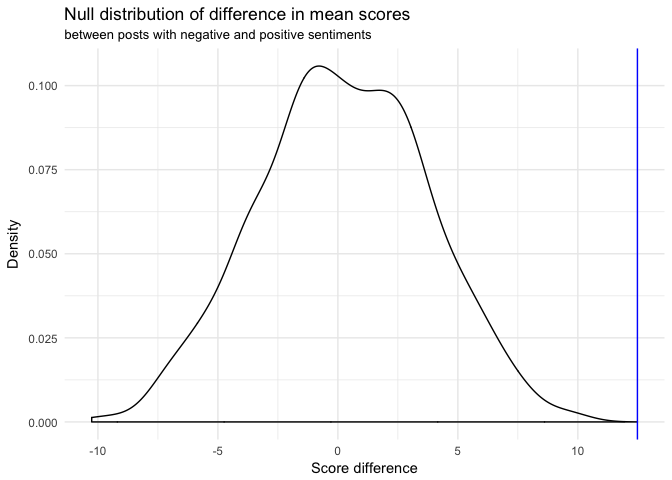
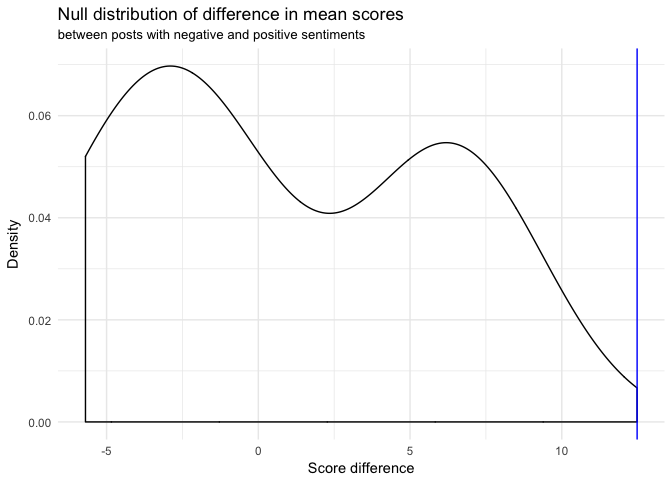
Finish modeling

diff --git a/project/project.md b/project/project.md
@@ -10,15 +10,15 @@ Reddit is a social news platform owned by Conde Nast that derives its content fr
 
 TODO: Expand introduction
 
-### Data Set
-
-The data set is comprised of Reddit posts from December 2017, since it was the latest data set we could find and wanted to keep up with the most recent trends. Also, it will be interesting to explore themes related to Christmas. We retrieved it from the Google BigQuery API. The data set contains 33 variables and 1000000 observations.
-
-Our dataset is made up of 33 variables but for this project, we will only be looking at these variables: `subreddit` (categorical, name of the subreddit the post belongs to), `num_comments` (numerical, the number of comments on the post),`score` (numerical, popularity score of post), `ups` (numerical, amount of up votes the post recieved), `downs` (numerical, amount of down votes the post recieved), `title` (categorical, the title of the post), `selftext` (categorical, the text body on the post), `gilded` (numerical, amount of gold reddit donations from other users), `over_18` ( categorical, true or fale if post is only appropriate for users over the age of 18), and `stickied` (categorical, whether or not post was stickied by moderators of the post's subreddit). The rest of the descriptions for the other variables can be found in our data folder.
-
-### Research Question
+#### Research Question
 
 Coincidentally, our team is made up of avid Reddit fans. All three of us are constantly checking it for interesting, insightful, and funny posts. Given that Reddit recieves thousands of posts per day and the little time in the day we have to check Reddit, we all usually only check the "popular" feed. So, it got us thinking that we should learn more about the site we use pretty frequently. Specifically, we want to analyze what makes a Reddit post popular.
+
+#### Data Set
+
+The data set is comprised of Reddit posts from December 2017, since it was the latest data set we could find and wanted to keep up with the most recent trends. Also, it will be interesting to explore themes related to Christmas. We retrieved it from the Google BigQuery API. The data set contains 33 variables and 1,000,000 observations.
+
+Our dataset is made up of 33 variables but for this project, we will only be looking at these variables: `subreddit` (categorical, name of the subreddit the post belongs to), `num_comments` (numerical, the number of comments on the post),`score` (numerical, popularity score of post), `ups` (numerical, amount of up votes the post recieved), `downs` (numerical, amount of down votes the post recieved), `title` (categorical, the title of the post), `selftext` (categorical, the text body on the post), `gilded` (numerical, amount of gold reddit donations from other users), `over_18` ( categorical, true or fale if post is only appropriate for users over the age of 18), and `stickied` (categorical, whether or not post was stickied by moderators of the post's subreddit). The rest of the descriptions for the other variables can be found in our data folder.
 
 Exploring Term Frequencies
 --------------------------
@@ -62,14 +62,14 @@ It appears that the sentiment analysis results match our intuition -- the positi
 
 Now, we can finally test our hypothesis. The null hypothesis and the alternative hypothesis are as follows.
 
-H0: A post's score is independent of the title's sentiment polarity.
+H0: The mean post score for negative posts is equal to the mean post score of positive posts.
 HA: Negative posts have a higher mean score than positive posts.
 
 For this analysis, we will ignore posts with neutral sentiment and only focus on those with positive or negative sentiment polarity. Before we start, we need to verify whether all conditions for valid simulation based inference are met. Our "population" is the set of all Reddit posts in December 2017 and has a size of 10,567,492. Our sample is taken at random without replacement and has a size of 1,000,000. Since the sample size is less than 10% of the population size, the independence condition is therefore met. Additionally, we require more than 30 samples, which we also have.
 
 First, we calculate the observed difference in mean score between posts with negative and positive `sent_class`.
 
-We find that, in our sample, negative posts have an average score which is 12.48 higher than positive posts. Next, let's figure out whether this difference could be due to chance using bootstrapping with permutation.
+We find that in our sample, negative posts have an average score which is 12.48 higher than positive posts. Next, let's figure out whether this difference could be due to chance using bootstrapping with permutation.
 
 The resulting null distribution of the differences in means in shown below.
 
@@ -95,7 +95,7 @@ The resulting null distribution of the differences in means in shown below.
 
 ![](project_files/figure-markdown_github/plot-null-dist2-1.png)
 
-We can clearly see that we have a p-value of 0.14. This means that we can reject the null hypothesis and conclude that *dog posts indeed have a higher mean score than cat posts*.
+We can clearly see that we have a p-value of 0.2. This means that we can reject the null hypothesis and conclude that *dog posts indeed have a higher mean score than cat posts*.
 
 Modeling Popularity
 -------------------
@@ -106,17 +106,21 @@ Our main resarch goal is to find out what makes a post popular. Hence, we want t
 
 It appears that the post scores follow something resembling a beta distribution. The average score is 58.66 and the standard deviation is 1027.86. The highest score by any post in December 2017 is 166121 by [this](http://www.reddit.com/r/gaming/comments/7m13gd/as_a_teen_in_the_80s_my_conservative_godfearing/) post, which is about the game Dungeons & Dragons.
 
-### Feature Engineering
+#### Feature Engineering
 
 We would like to build a model that predicts a post's score from various features, so we need to decide which features we want to look at. We start by creating a variable that denotes the total uptime of the post, i.e. the difference between the time it was retrieved and the time it was created. Both of these quantitites are given as the number of seconds from a time origin, so we can simply compute the difference between the two and convert the result into hours, as that will be a more interpretable quantity.
 
 Next, we want to have a variable that denotes the length of the title as well as the body text of each post. Hence, we compute the number of characters in `title` and store it in a new variable `title_length`.
 
-We would like to include the `subreddit` variable, but there are 1000000 levels which will increase the model complexity drastically. Hence, we only include indicator variables for the nine most popular subreddits we explored earlier as well as one additional level called "other".
+We would like to include the `subreddit` variable, but there are 64531 levels which will increase the model complexity too much. Hence, we only include indicator variables for the nine most popular subreddits we explored earlier as well as one additional level called "other".
 
 We will also include the two variables we created earlier -- `sent_class` and `animal` -- as well as `gilded`, `stickied`, and `num_comments`. Next, we remove posts where the score is hidden or any of the predictor variables are missing.
 
-This leaves us with 995003 posts out of the original 1000000. Our first approach will be a linear model, optimized using backward selection by AIC.
+This leaves us with 995003 posts out of the original 1,000,000.
+
+#### Modeling
+
+Our first approach will be a linear model, optimized using backward selection by AIC.
 
     ## Start:  AIC=1.4e+07
     ## score ~ uptime + title_length + gilded + stickied + num_comments + 
@@ -167,11 +171,27 @@ This leaves us with 995003 posts out of the original 1000000. Our first approach
     ## 17    subreddit_The_Donald -141.081
     ## 18 subreddit_todayilearned  243.961
 
-Looking at the slope coeffiecents for our selected model's variables of `gilded`, `num_comments`, `stickied`, and `sent_class`, we can analyze the following. For every one gilded point a Reddit post receives, the score goes up by 4,622, given that all other variables remain constant. This makes sense since user really must like a post if they're willing to pay a gold donation to the creator. For every one comment the Reddit post recieves, the score goes by 3.9, given that all other variables remain constant. For when a post gets stickied by the moderators of the subreddits, the score goes down by 144.3, given that all other variables remain constant. This is an interesting analysis because we would expect a post that gets attention from the moderators and gets placed at the top of the feed would recieve a higher score but apparently that is not the case. Lastly, when a post's title is of neutral sentiment, the post's score goes down by 6.7 and if the post's title is of positive sentiment, the post's score goes down by 8.
+Looking at the slope coefficients for our selected model's variables of `gilded`, `num_comments`, `stickied`, and `sent_class`, we can analyze the following. For every one gilded point a Reddit post receives, the score goes up by 4,622, given that all other variables remain constant. This makes sense since user really must like a post if they're willing to pay a gold donation to the creator. For every one comment the Reddit post recieves, the score goes by 3.9, given that all other variables remain constant. For when a post gets stickied by the moderators of the subreddits, the score goes down by 144.3, given that all other variables remain constant. This is an interesting analysis because we would expect a post that gets attention from the moderators and gets placed at the top of the feed would recieve a higher score but apparently that is not the case. Lastly, when a post's title is of neutral sentiment, the post's score goes down by 6.7 and if the post's title is of positive sentiment, the post's score goes down by 8.
 
-We find an R<sup>2</sup> value of `r2`, which means that the model can only explain 17.53% of the variance of the post scores. However, this may not be too surprising, since the scores definitely do not follow a multivariate linear model. Nor do any of the predictor variables include much information about the content of the post itself, since the text is not included in the model at all. We think that including the actual text information may help us improve our model. To do this, we need to encode the title's text into numeric variables, where each unique word has its own column. The package `tm` lets us create such a representation, also called document-term matrix. First, we clean up the text data by converting
+We find an R<sup>2</sup> value of 0.18, which means that the model can only explain 17.53% of the variance of the post scores. However, this may not be too surprising, since the scores definitely do not follow a multivariate linear model. Nor do any of the predictor variables include much information about the content of the post itself, since the text is not included in the model at all. We think that including the actual text information may help us improve our model. To do this, we need to encode the title's text into numeric variables, where each unique word has its own column. The package `tm` lets us convert our tidy create such a representation, also called document-term matrix. Note that the string in each row represents the unique ID of each post.
 
-TODO: Discuss results
+Now, we have a total of 95 variables in the dataframe, where the new ones represents the tf-idf weight of a unique word in the title of the post. Note that we had to eliminate many of the terms in order for it to fit into memory. We did this using the `removeSparseTerms` function from `tm`, which removes terms from the matrix until it has a percentage of elements which are zero that is at least 99.5%. Let's again build a linear model using backwords selection and see whether the new variables improve the results.
+
+    ## Start:  AIC=1.3e+07
+    ## score ~ num_comments + gilded + stickied + sentiment + sent_class + 
+    ##     dog + cat + uptime + title_length + subreddit_ + video + 
+    ##     christmas + time + love + home + day + `7` + people + amp + 
+    ##     `2017` + `20` + guys + `12` + world + ps4 + bitcoin + reddit + 
+    ##     xbox + `3` + `5` + trump + `1` + `2018` + girl + december + 
+    ##     level + news + free + game + question + m4f + `18` + `17` + 
+    ##     white + https + t.co + `10` + keys + black + `2` + `4` + 
+    ##     games + business + online + pc + national + live + post + 
+    ##     play + found + top + buy + life + watch
+
+We find that the resulting R<sup>2</sup> is 0.18, which is not much better than the previous model. It appears that adding the new variables has not helped much. However, maybe a linear model is simply not the right choice.
+
+Discussion
+----------
 
 Conclusion
 ----------
